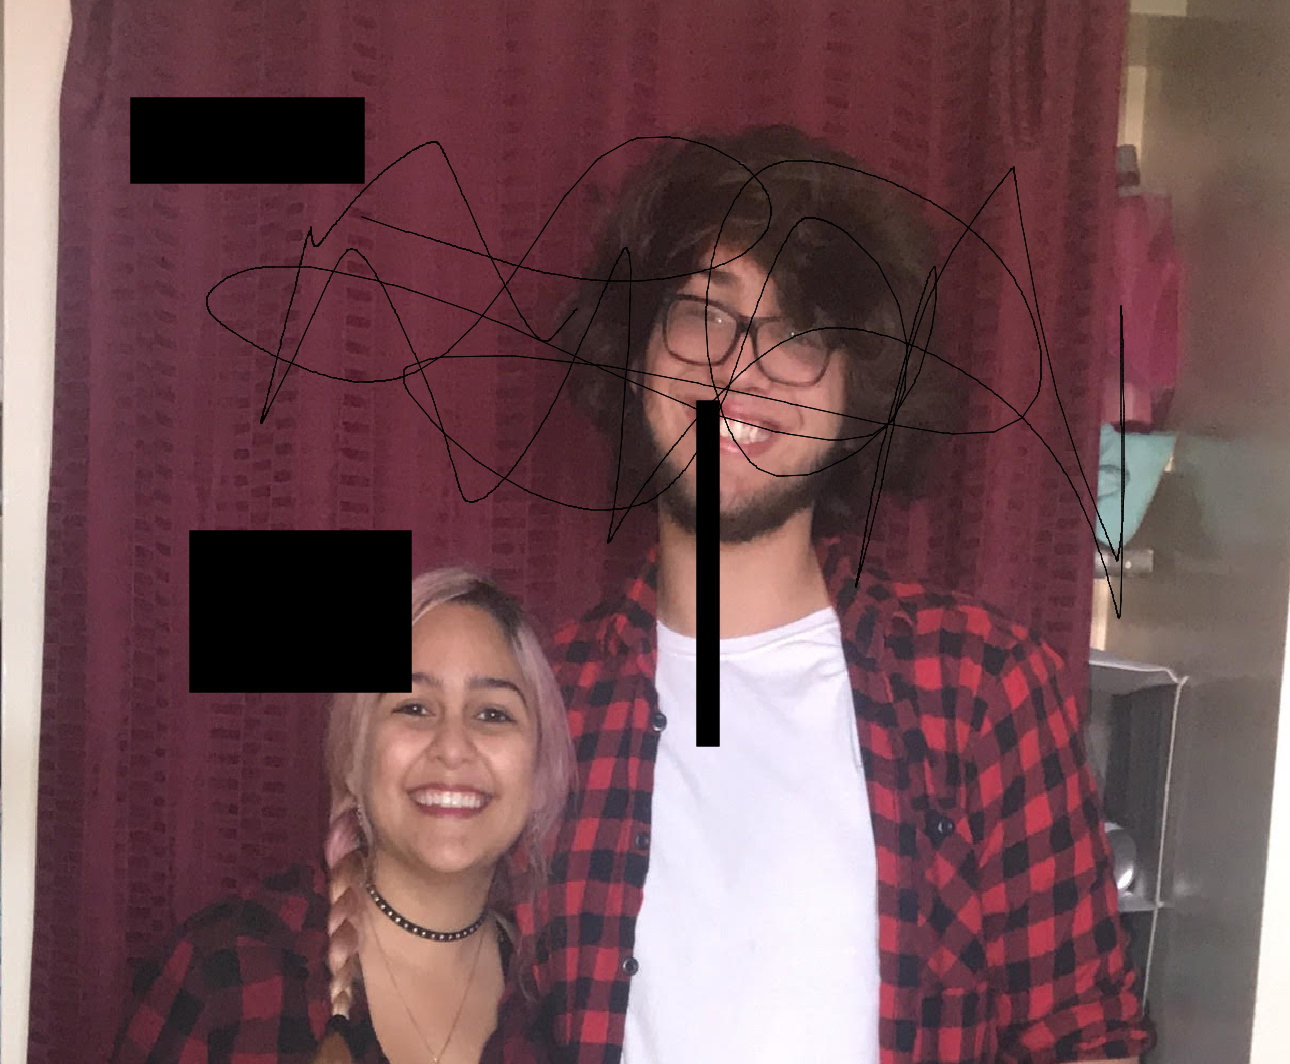
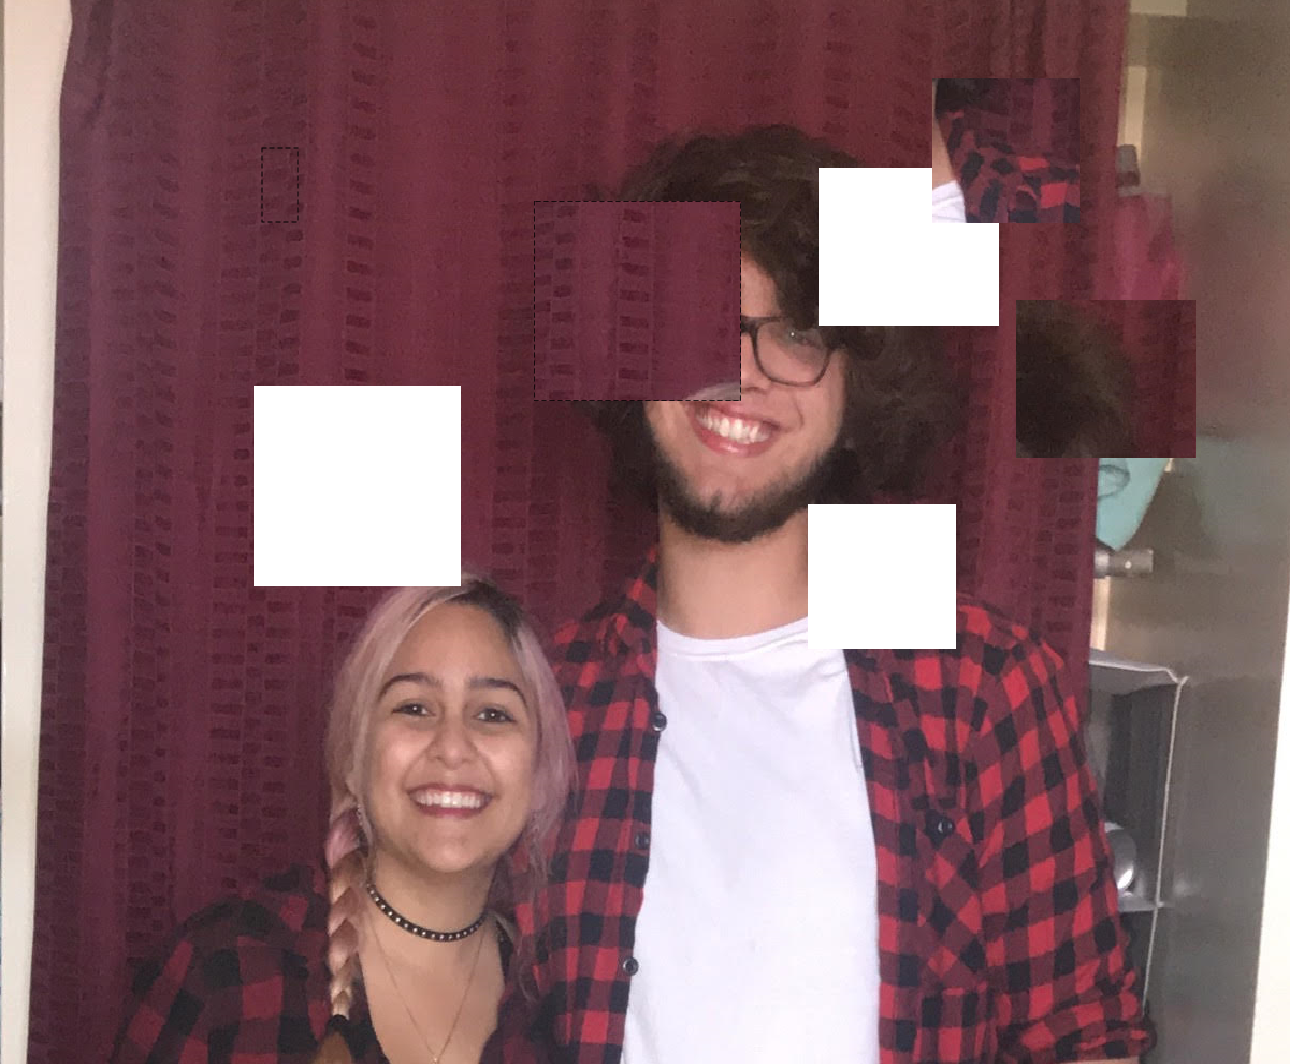
fill, copy

diff --git a/paint_overhaul/src/paint_overhaul/other/paint.css b/paint_overhaul/src/paint_overhaul/other/paint.css
@@ -140,6 +140,8 @@
     -fx-padding: 0 20 0 0;   
 }
 #toolStatus {          
-    -fx-padding: 0 0 0 20;   
+    -fx-padding: 0 0 0 20;  
+
 }
+
 

diff --git a/paint_overhaul/src/paint_overhaul/shapes/SelectionRectangle.java b/paint_overhaul/src/paint_overhaul/shapes/SelectionRectangle.java
@@ -5,13 +5,15 @@
  */
 package paint_overhaul.shapes;
 
-import javafx.geometry.Rectangle2D;
-import javafx.scene.SnapshotParameters;
+
 import javafx.scene.canvas.Canvas;
 import javafx.scene.canvas.GraphicsContext;
-import javafx.scene.image.Image;
+import javafx.scene.control.ContextMenu;
+import javafx.scene.control.MenuItem;
+
 import javafx.scene.image.ImageView;
 import javafx.scene.image.WritableImage;
+
 import javafx.scene.paint.Color;
 import javafx.scene.paint.Paint;
 import paint_overhaul.other.Main;
@@ -25,11 +27,11 @@ import paint_overhaul.other.PaintCanvas;
  */
 public class SelectionRectangle {
     private WritableImage image;
-    private ImageView imgView;
     private PaintCanvas paintCanvas;
     double origX, origY;
     double endX, endY;
-    boolean isDragging = false;
+    boolean copyMode = false;
+    boolean pasteMode = false;
     private ImageView currentSelection;
     public SelectionRectangle(double startX, double startY, double endX, double endY) {
         origX = startX;
@@ -50,14 +52,19 @@ public class SelectionRectangle {
     }
     
     public void setImage(Canvas canvas, GraphicsContext gc){
+        
         selectionSetup(canvas, gc);
+       
         Paint colorBeforeErase = gc.getFill();
         currentSelection.setX(origX);
         currentSelection.setY(origY);
-
+        
+        
         currentSelection.setOnMousePressed(event -> {
-            gc.setFill(Color.WHITE);
-            gc.fillRect(origX, origY, Math.abs(endX - origX), Math.abs(endY - origY));
+            if(!copyMode){
+                gc.setFill(Color.WHITE);
+                gc.fillRect(origX, origY, Math.abs(endX - origX), Math.abs(endY - origY));
+            }
             origX = (event.getX()- currentSelection.getX());
             origY = (event.getY()- currentSelection.getY());
         });
@@ -77,16 +84,20 @@ public class SelectionRectangle {
             gc.drawImage(currentSelection.getImage(),currentSelection.getX(),currentSelection.getY());
             //selection.getOrigX(), selection.getOrigY(), currentSelection.getX()-selection.getOrigX(), currentSelection.getY()-selection.getOrigY()
             currentSelection = null;
+            setCopyMode(false);
         });
         //double width = selection.getEndX() - selection.getOrigX();
         //double height = selection.getEndY() - selection.getOrigY();
         //gc.drawImage(currentSelection.getImage(), selection.getEndX(),selection.getEndY());
         Main.paintController.getStaticPane().getChildren().add(currentSelection);
+        
         gc.setFill(colorBeforeErase); 
 
     }
     private void selectionSetup(Canvas canvas, GraphicsContext gc){
+        
         WritableImage oldImg = new WritableImage((int)canvas.getWidth(), (int)canvas.getHeight());
+        Main.paintController.getPaintCanvas().redoLast();
         canvas.snapshot(null, oldImg);
         
         if(origX > endX){
@@ -99,14 +110,14 @@ public class SelectionRectangle {
             endY = origY;
             origY = temp;
         }
+        
         WritableImage newImage = new WritableImage(oldImg.getPixelReader(), (int)origX, (int)origY, (int)Math.abs(origX-endX), (int)Math.abs(origY-endY));
         //selectedImage = newImage;
         
         currentSelection = new ImageView(newImage);
+        
     }
-    public Image getImage(){
-        return imgView.getImage();
-    }
+    
     public double getOrigX(){
         return origX;
     }
@@ -131,11 +142,8 @@ public class SelectionRectangle {
     public void setEndY(double endY){
         this.endY = endY;
     }
-    public void setIsDragging(boolean bool){
-        this.isDragging = bool;
+    public void setCopyMode(boolean bool){
+        this.copyMode = bool;
     }
-    public boolean getIsDragging(){
-        return isDragging;
-                
-    }
+    
 }

diff --git a/paint_overhaul/src/paint_overhaul/other/FXMLPaintController.java b/paint_overhaul/src/paint_overhaul/other/FXMLPaintController.java
@@ -119,6 +119,7 @@ public class FXMLPaintController extends DefaultController {
     public AutoSaveThread getAutoSaveThread(){
         return autoSaveThread;
     }
+    
     /**
      * FXML Function to handle opening a file. 
      * This function opens a file using the file chooser,
@@ -223,6 +224,11 @@ public class FXMLPaintController extends DefaultController {
     public void handleHelpContents(){
         helpAlert.createAlert();
     }
+    @FXML
+    public void handleCopyButton(){
+        paintCanvas.getSelectionRecatangle().setCopyMode(true);
+    }
+    
     /**
      * FXML Function to undo the last action from Edit-&gt;Undo.
      * Fires the undo button.
@@ -447,6 +453,23 @@ public class FXMLPaintController extends DefaultController {
             Logger.getLogger(FXMLPaintController.class.getName()).log(Level.SEVERE, null, ex);
         }
     }
+    public void handleFillToggle(){
+        if(fillButton.isSelected()){
+            paintCanvas.setDrawingMode(DrawingMode.DRAW);
+            paintCanvas.setDrawingTool(DrawingTools.FILL);
+            setToolStatus("Tool Selected: " + paintCanvas.getDrawingTool().toString());
+        }
+        else{
+            paintCanvas.setDrawingTool(DrawingTools.NONE);
+            setToolStatus("Tool Selected: " + paintCanvas.getDrawingTool().toString());
+        }
+        
+        try {
+            autoSaveThread.logTool(paintCanvas.getDrawingTool().toString());
+        } catch (IOException ex) {
+            Logger.getLogger(FXMLPaintController.class.getName()).log(Level.SEVERE, null, ex);
+        }
+    }
     public void handleEraserToggle(){
         if(eraserButton.isSelected()){
             paintCanvas.setDrawingMode(DrawingMode.DRAW);
@@ -611,7 +634,7 @@ public class FXMLPaintController extends DefaultController {
     public void handleSelectionRectangle(){
         if(selectionRectangle.isSelected()){
             paintCanvas.setDrawingMode(DrawingMode.SELECT);
-            paintCanvas.setDrawingTool(DrawingTools.SELECTIONRECTANGLE);
+            paintCanvas.setDrawingTool(DrawingTools.SELECT);
             setToolStatus("Tool Selected: " + paintCanvas.getDrawingTool().toString());
         }
         else{

diff --git a/paint_overhaul/src/paint_overhaul/shapes/Fill.java b/paint_overhaul/src/paint_overhaul/shapes/Fill.java
@@ -1,0 +1,30 @@
+/*
+ * To change this license header, choose License Headers in Project Properties.
+ * To change this template file, choose Tools | Templates
+ * and open the template in the editor.
+ */
+package paint_overhaul.shapes;
+
+import javafx.scene.canvas.Canvas;
+import javafx.scene.canvas.GraphicsContext;
+
+/**
+ *
+ * @author Dylan
+ */
+public class Fill extends PaintShape{
+    private Canvas canvas;
+    public Fill(double x, double y, Canvas canvas) {
+        super(x,y,x,y);
+        this.canvas = canvas;
+    }
+    @Override
+    public void draw(GraphicsContext gc) {
+        gc.fillRect(0,0,canvas.getWidth(), canvas.getHeight());
+    }
+
+    @Override
+    public void draw(GraphicsContext gc, int sides) {}
+    
+    
+}

diff --git a/paint_overhaul/src/paint_overhaul/other/PaintCanvas.java b/paint_overhaul/src/paint_overhaul/other/PaintCanvas.java
@@ -111,6 +111,9 @@ public class PaintCanvas {
                 case PENCIL:
                     currentShape = new Pencil(e.getX(), e.getY());
                     break;
+                case FILL:
+                    currentShape = new Fill(e.getX(), e.getY(), getCanvas());
+                    break;
                 case LINE:
                     currentShape = new Line(e.getX(), e.getY());
                     break;
@@ -524,6 +527,9 @@ public class PaintCanvas {
      */
     public double getCurrentZoom(){
         return currentZoom;
+    }
+    public SelectionRectangle getSelectionRecatangle(){
+        return selection;
     }
     /**
      * Function to zoom the canvas in.

diff --git a/paint_overhaul/src/paint_overhaul/constant/DrawingTools.java b/paint_overhaul/src/paint_overhaul/constant/DrawingTools.java
@@ -16,6 +16,7 @@ package paint_overhaul.constant;
 public enum DrawingTools {
     PENCIL(),
     LINE(),
+    FILL(),
     ERASER(),
     RECTANGLE(),
     SQUARE(),
@@ -26,6 +27,6 @@ public enum DrawingTools {
     STAR(),
     TEXT(),
     EYEDROPPER(),
-    SELECTIONRECTANGLE(),
+    SELECT(),
     NONE()
 }
